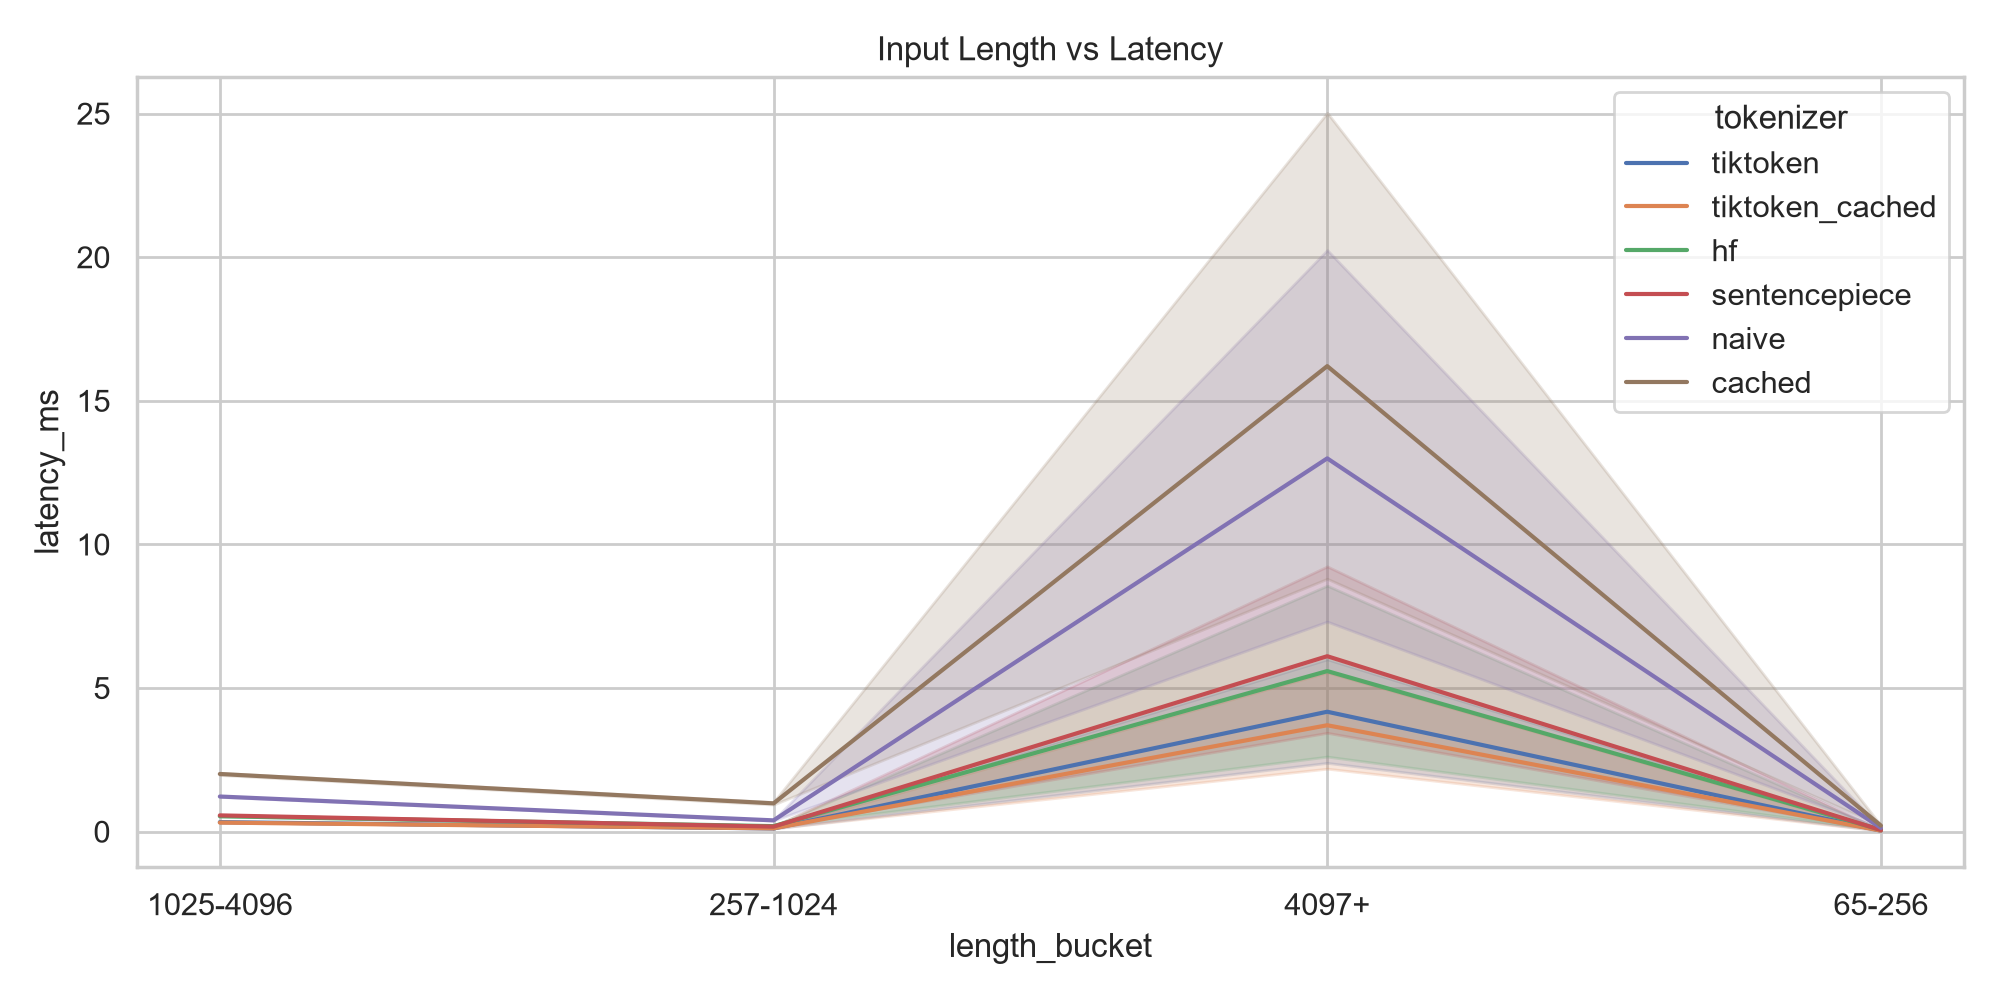
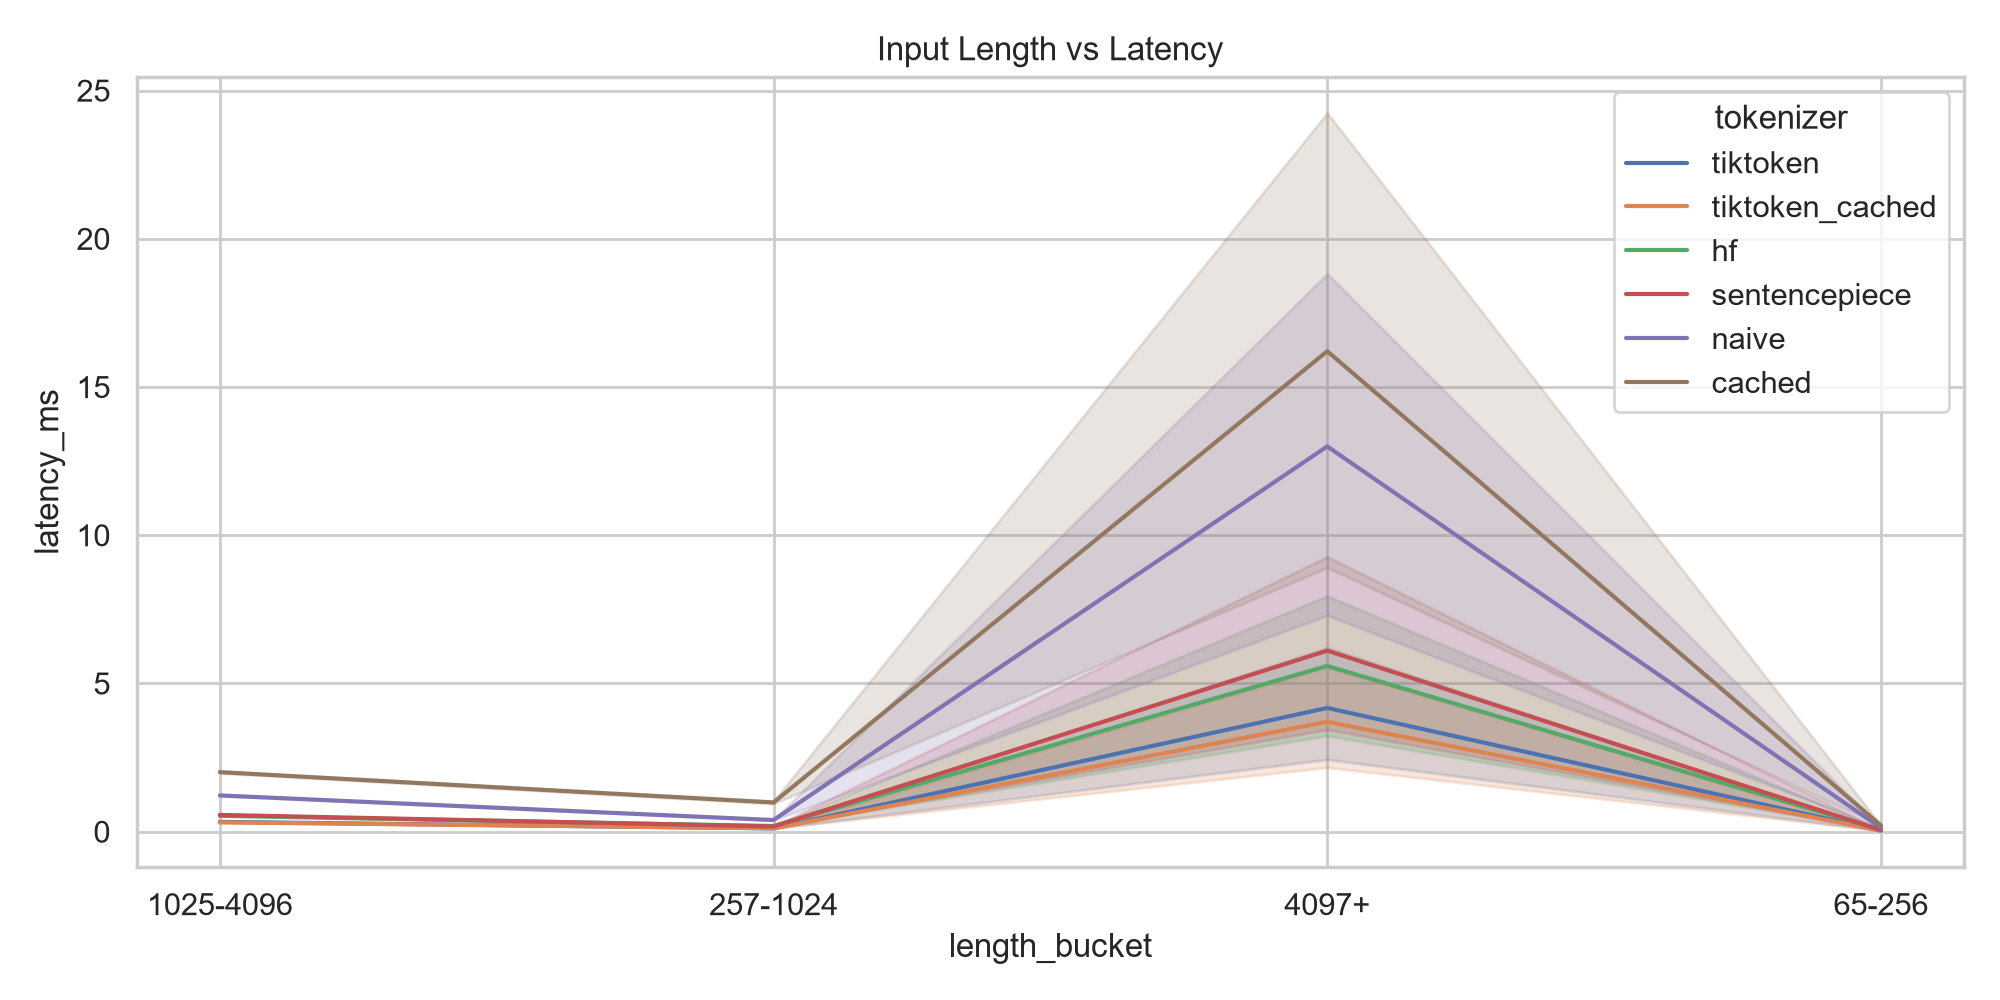
change

diff --git a/fastbpe/plots/generate_plots.py b/fastbpe/plots/generate_plots.py
@@ -1,7 +1,12 @@
 from __future__ import annotations
 
+import os
 from pathlib import Path
 
+os.environ.setdefault("MPLCONFIGDIR", str(Path(__file__).resolve().parents[2] / ".matplotlib"))
+
+import matplotlib
+matplotlib.use("Agg")
 import matplotlib.pyplot as plt
 import pandas as pd
 import seaborn as sns
@@ -46,6 +51,35 @@ def generate_plots(results_dir: str | Path) -> list[Path]:
     sns.boxplot(data=raw, x="tokenizer", y="avg_latency_ms")
     plt.title("Latency Distribution by Tokenizer")
     path = plots_dir / "latency_distribution.png"
+    _save_plot(path)
+    generated.append(path)
+
+    latency_metrics = summary.groupby("tokenizer", as_index=False).agg(
+        avg_latency_ms=("avg_latency_ms", "mean"),
+        p50_latency_ms=("p50_latency_ms", "mean"),
+        p95_latency_ms=("p95_latency_ms", "mean"),
+        p99_latency_ms=("p99_latency_ms", "mean"),
+    )
+    latency_long = latency_metrics.melt(
+        id_vars="tokenizer",
+        value_vars=["avg_latency_ms", "p50_latency_ms", "p95_latency_ms", "p99_latency_ms"],
+        var_name="metric",
+        value_name="latency_ms",
+    )
+    metric_labels = {
+        "avg_latency_ms": "avg",
+        "p50_latency_ms": "p50",
+        "p95_latency_ms": "p95",
+        "p99_latency_ms": "p99",
+    }
+    latency_long["metric"] = latency_long["metric"].map(metric_labels)
+    plt.figure(figsize=(11, 5))
+    ax = sns.barplot(data=latency_long, x="tokenizer", y="latency_ms", hue="metric")
+    plt.title("Latency Summary by Tokenizer (avg, p50, p95, p99)")
+    plt.ylabel("Latency (ms)")
+    for container in ax.containers:
+        ax.bar_label(container, fmt="%.3f", fontsize=7, padding=2)
+    path = plots_dir / "latency_percentiles.png"
     _save_plot(path)
     generated.append(path)
 